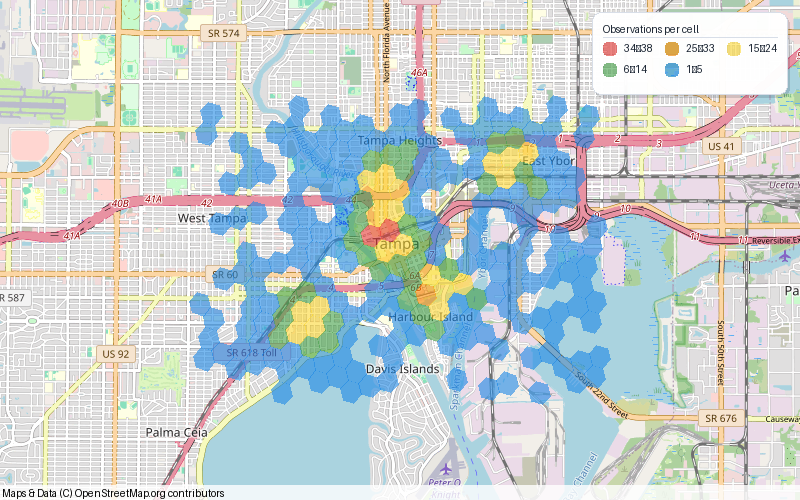
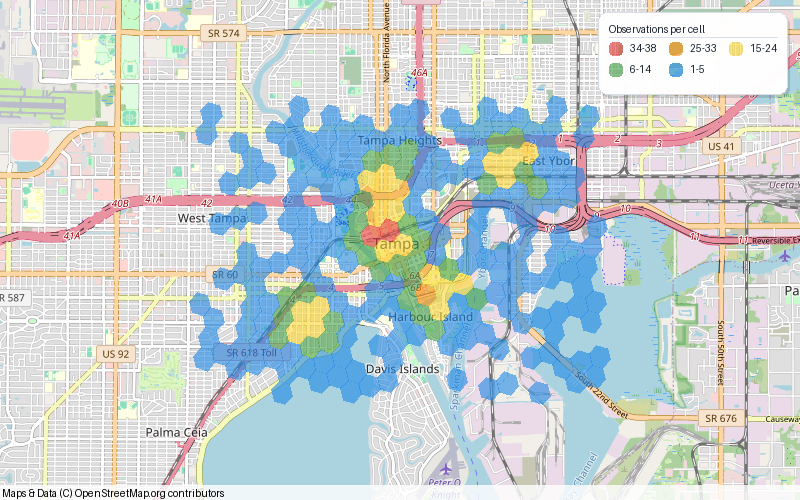
Use hyphens for legend count ranges

Changed region(s): [[0.7188, 0.03, 0.9688, 0.18]]

diff --git a/tests/test_colors.py b/tests/test_colors.py
@@ -37,12 +37,12 @@ def test_heatmap_legend_groups_counts_into_color_ranges():
     assert len(layer.legend_ranges) == 5
     descending = layout_legend((layer,), heatfall.LegendOptions(), 800, 500)
     descending_labels = [row.label for col in descending.sections[0][1] for row in col]
-    assert descending_labels == ["19–21", "14–18", "9–13", "4–8", "1–3"]
+    assert descending_labels == ["19-21", "14-18", "9-13", "4-8", "1-3"]
     ascending = layout_legend(
         (layer,), heatfall.LegendOptions(count_order="ascending"), 800, 500
     )
     ascending_labels = [row.label for col in ascending.sections[0][1] for row in col]
-    assert ascending_labels == ["1–3", "4–8", "9–13", "14–18", "19–21"]
+    assert ascending_labels == ["1-3", "4-8", "9-13", "14-18", "19-21"]
 
 
 def test_all_public_heat_apis_default_to_heatmap():

diff --git a/src/heatfall/legend.py b/src/heatfall/legend.py
@@ -271,7 +271,7 @@ def layout_legend(
             values = tuple(
                 LegendRow(
                     options.label_format.format(
-                        count=(str(low) if low == high else "{}–{}".format(low, high))
+                        count=(str(low) if low == high else "{}-{}".format(low, high))
                     ),
                     color,
                 )
